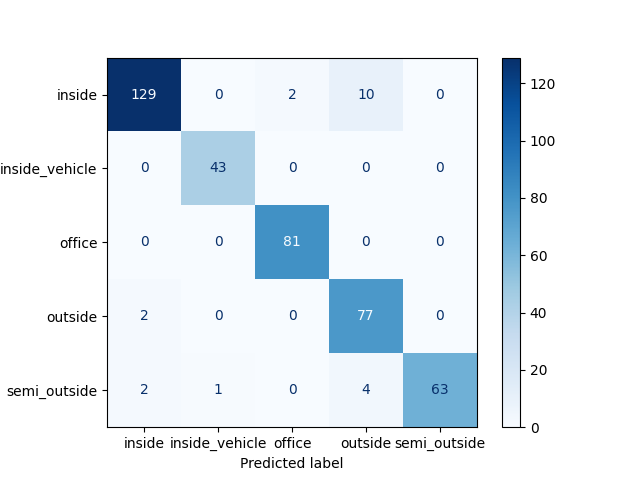
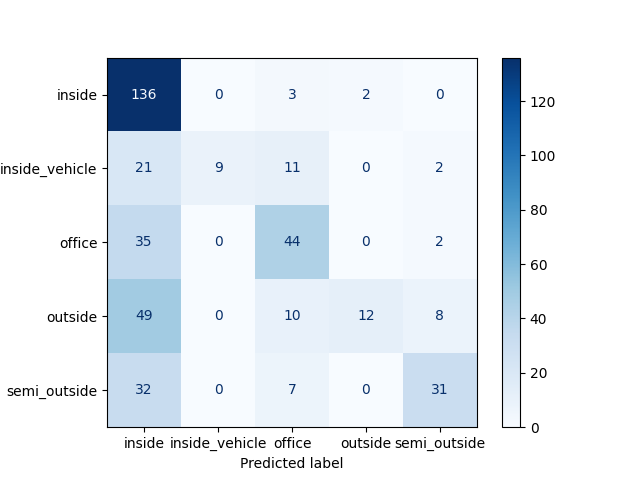
changes

diff --git a/preprocessing.py b/preprocessing.py
@@ -446,7 +446,7 @@ class preprocess():
         wgn = np.random.normal(loc=0.0, scale=1.0, size=x.shape[0])
         return np.add(x, wgn)
 
-    def packet_loss_sim(self, data, loss_type='random', 
+    def packet_loss_sim(self, data, loss_type='burst', 
                         loss_distr=0.05, packet_size=0.010):
         """ simulate packet loss on audio data
 
